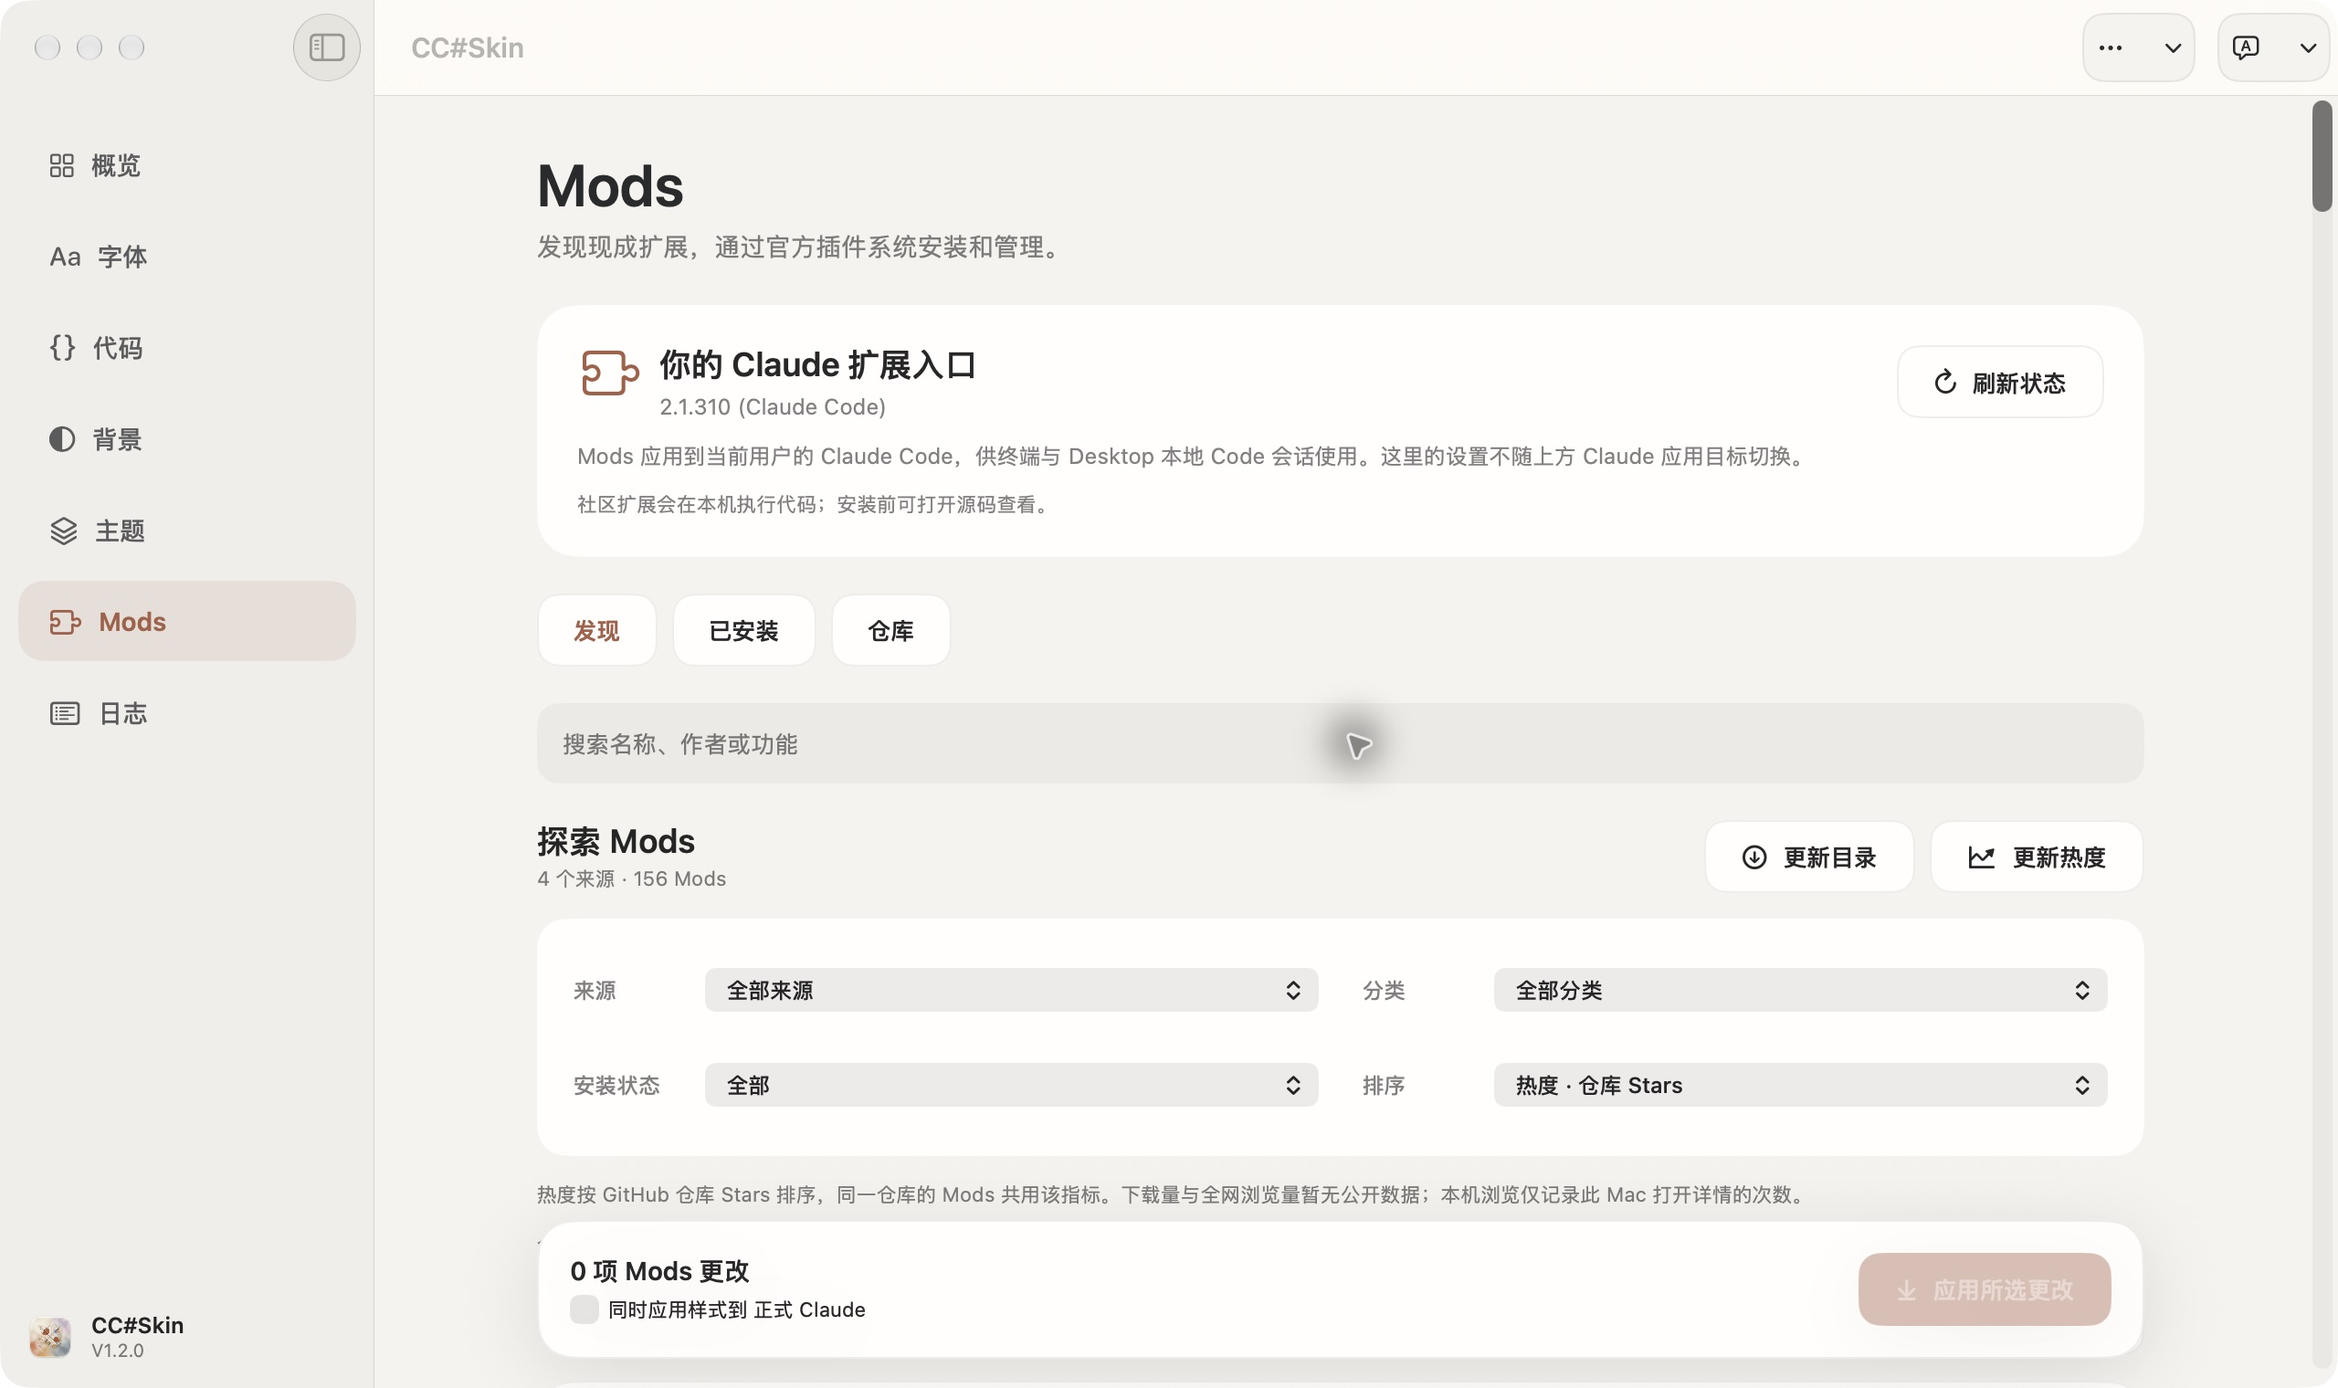
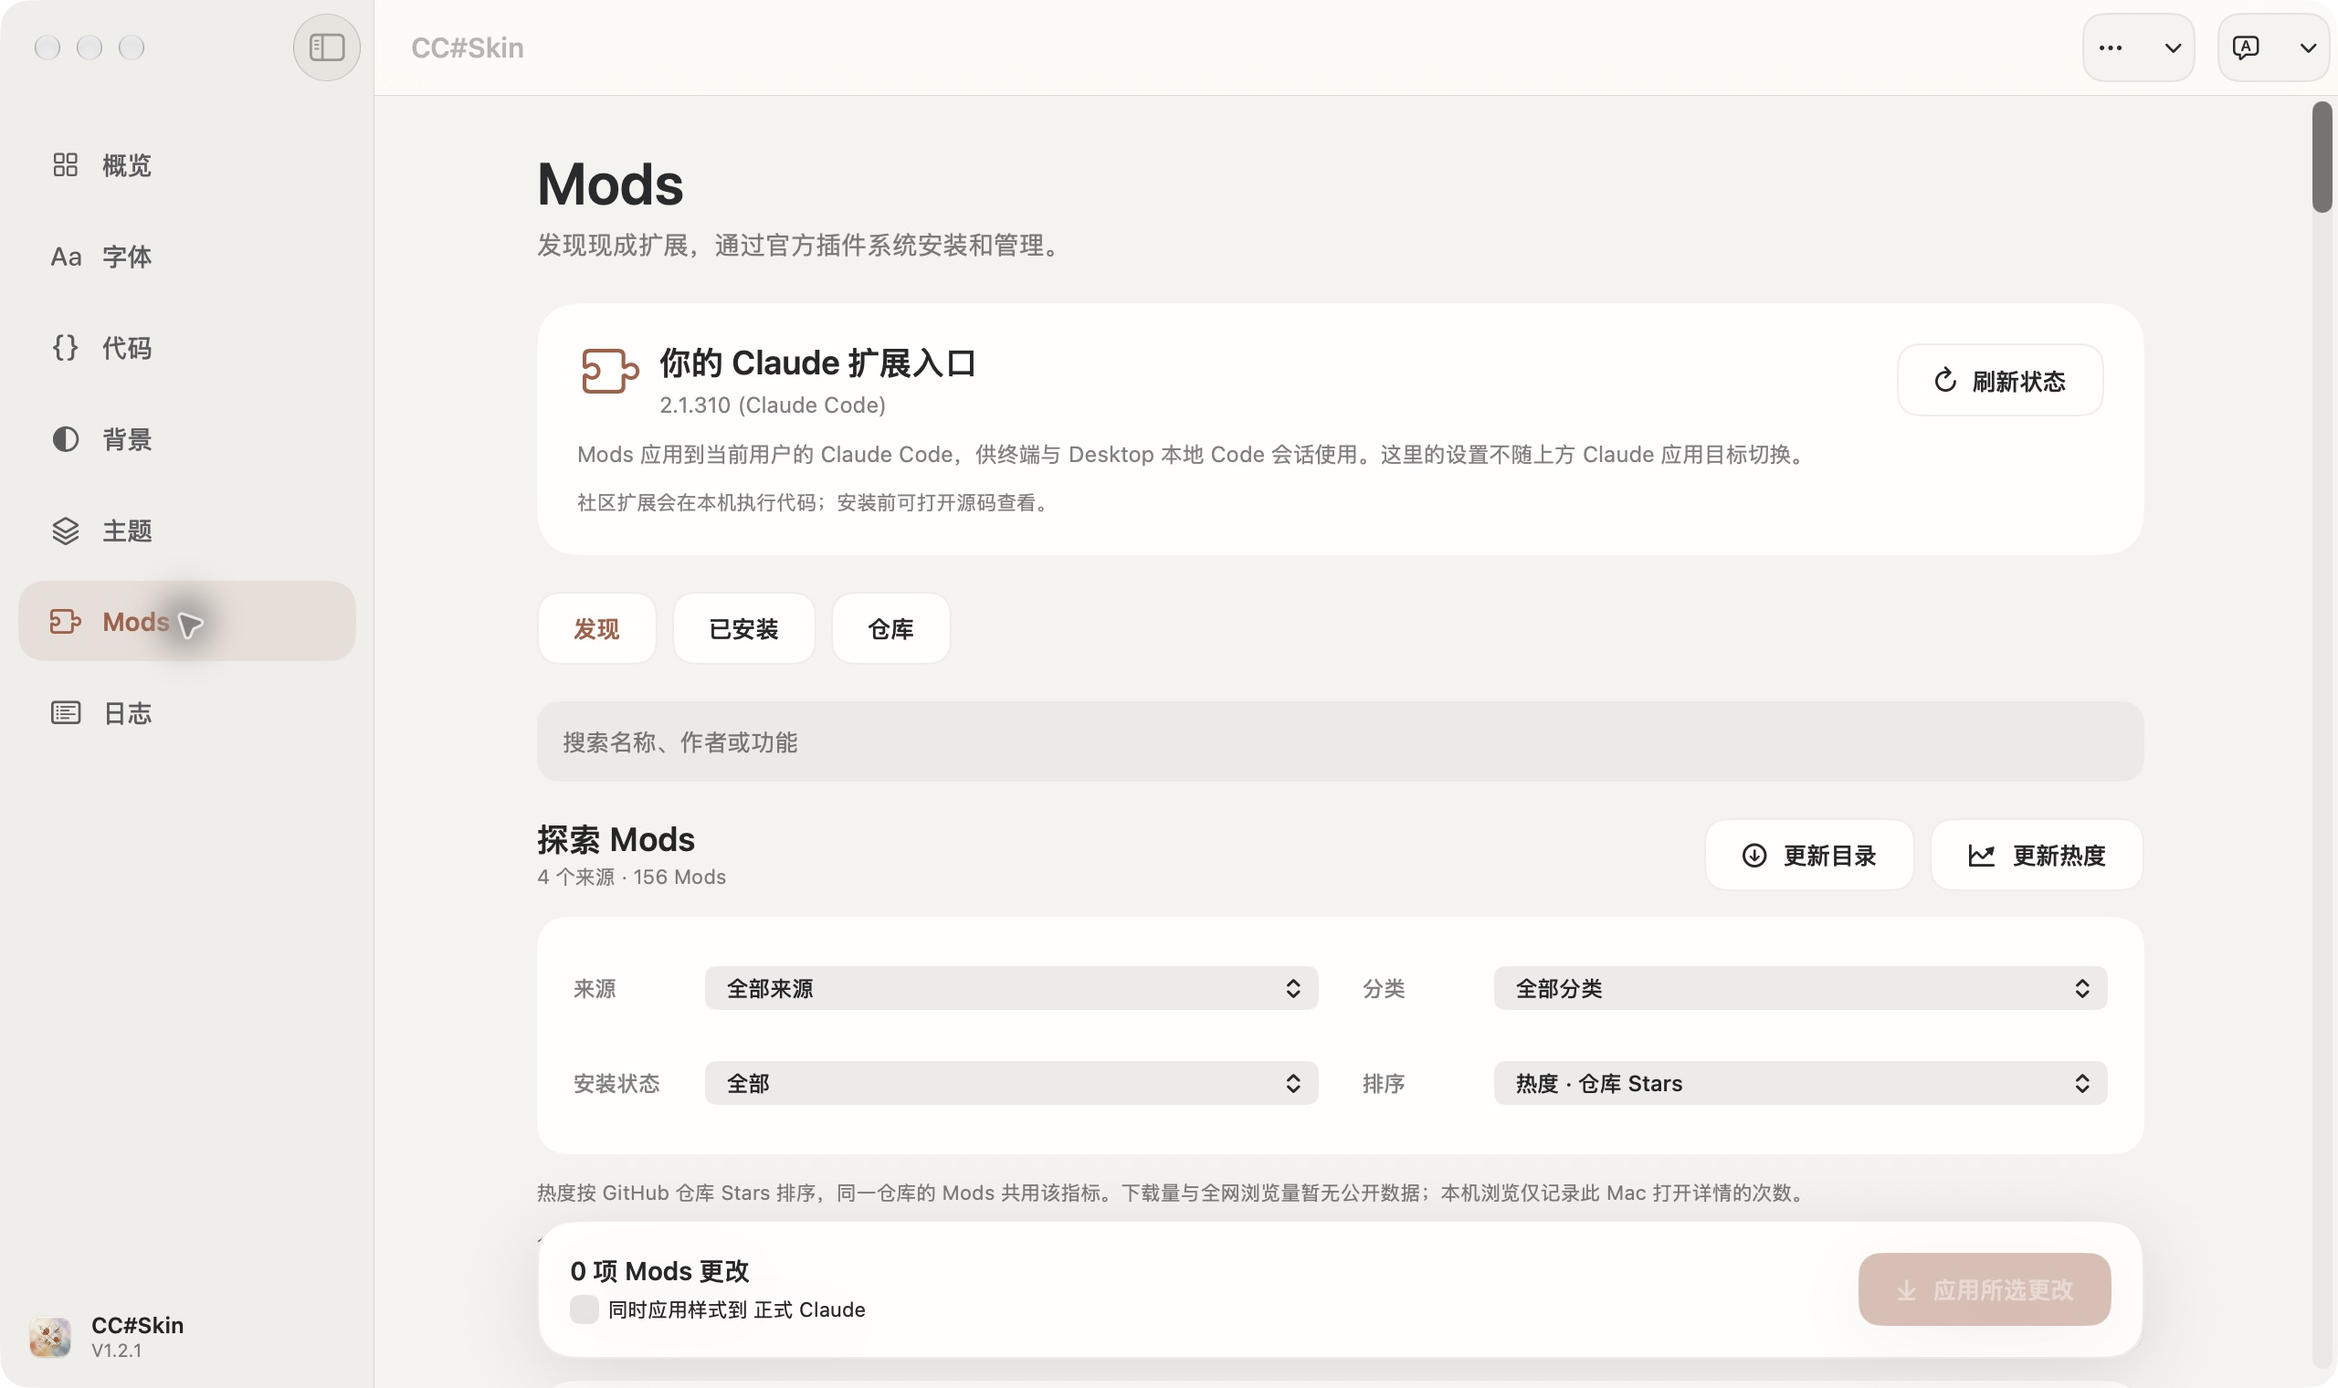
fix: align sidebar labels and rename repository to CCSkin

diff --git a/gui/Updates.swift b/gui/Updates.swift
@@ -4,9 +4,9 @@ import SwiftUI
 import Foundation
 
 enum Updater {
-    static var version: String { Bundle.main.object(forInfoDictionaryKey:"CFBundleShortVersionString") as? String ?? "1.2.0" }
-    static let releases = URL(string: "https://github.com/Orxooo/ClaudeFont/releases")!
-    static let endpoint = URL(string: "https://api.github.com/repos/Orxooo/ClaudeFont/releases/latest")!
+    static var version: String { Bundle.main.object(forInfoDictionaryKey:"CFBundleShortVersionString") as? String ?? "1.2.1" }
+    static let releases = URL(string: "https://github.com/Orxooo/CCSkin/releases")!
+    static let endpoint = URL(string: "https://api.github.com/repos/Orxooo/CCSkin/releases/latest")!
     static func isNewer(_ tag: String) -> Bool {
         let normalized = tag.hasPrefix("v") || tag.hasPrefix("V") ? String(tag.dropFirst()) : tag
         let parts = normalized.split(separator: ".").compactMap { Int($0) }
@@ -43,7 +43,7 @@ final class UpdateWatcher: ObservableObject {
                 guard error == nil, let response = response as? HTTPURLResponse, response.statusCode == 200,
                       let data, let release = try? JSONDecoder().decode(Release.self, from: data),
                       let page = URL(string: release.html_url), page.scheme == "https", page.host == "github.com",
-                      page.path.lowercased().hasPrefix("/orxooo/claudefont/releases/") else {
+                      page.path.lowercased().hasPrefix("/orxooo/ccskin/releases/") else {
                     self.message = Copy.shared.effective == .zh ? "检查失败，请稍后重试。" : "Could not check. Try again later."; return
                 }
                 UserDefaults.standard.set(Date().timeIntervalSince1970, forKey: "lastReleaseCheck")

diff --git a/gui/WorkspaceView.swift b/gui/WorkspaceView.swift
@@ -331,7 +331,13 @@ struct WorkspaceView: View {
             VStack(spacing: 6) {
                 ForEach(WorkspaceTab.allCases) { item in
                     Button { withAnimation(motion) { tab = item } } label: {
-                        Label(item.title(lang), systemImage: item.symbol)
+                        HStack(spacing: 10) {
+                            Image(systemName: item.symbol)
+                                .frame(width: 20, height: 20)
+                                .accessibilityHidden(true)
+                            Text(item.title(lang))
+                                .lineLimit(1)
+                        }
                             .font(.system(size: 14, weight: tab == item ? .semibold : .medium))
                             .foregroundStyle(tab == item ? accent : ink.opacity(0.75))
                             .frame(maxWidth: .infinity, alignment: .leading)
@@ -344,6 +350,7 @@ struct WorkspaceView: View {
                             }
                             .contentShape(RoundedRectangle(cornerRadius: 14))
                     }.buttonStyle(.plain).focusEffectDisabled()
+                        .accessibilityLabel(item.title(lang))
                         .accessibilityAddTraits(tab == item ? .isSelected : [])
                 }
                 Spacer()

diff --git a/docs/USAGE.md b/docs/USAGE.md
@@ -4,15 +4,15 @@
 
 ## 安装与校验
 
-在[发行页](https://github.com/Orxooo/ClaudeFont/releases/latest)下载 macOS ZIP 与 `SHA256SUMS.txt`。将 ZIP 的 SHA-256 摘要与清单中的同名条目核对：
+在[发行页](https://github.com/Orxooo/CCSkin/releases/latest)下载 macOS ZIP 与 `SHA256SUMS.txt`。将 ZIP 的 SHA-256 摘要与清单中的同名条目核对：
 
 ```sh
-shasum -a 256 CCSkin-1.2.0-macOS-arm64.zip
+shasum -a 256 CCSkin-1.2.1-macOS-arm64.zip
 ```
 
-以上命令对应 V1.2.0；其他版本请使用发行页列出的文件名。解压后，将应用移入「应用程序」文件夹。
+以上命令对应 V1.2.1；其他版本请使用发行页列出的文件名。解压后，将应用移入「应用程序」文件夹。
 
-V1.2.0（构建 7）使用 Apple 开发证书签名，未经 Apple 公证。若 macOS 拦截首次打开，确认来源和摘要后，在「系统设置 → 隐私与安全性」选择「仍要打开」。
+V1.2.1（构建 8）使用 Apple 开发证书签名，未经 Apple 公证。若 macOS 拦截首次打开，确认来源和摘要后，在「系统设置 → 隐私与安全性」选择「仍要打开」。
 
 当前发行包和源码构建产物均为 `CC#Skin.app`。预览使用示例内容。Mods 用法见 [Mods 说明](MODS.md)。
 
@@ -54,21 +54,21 @@ Claude 更新后，先重新检查兼容性，再应用已保存的设置。CC#S
 
 操作在本机执行，更新检查、目录刷新与仓库热度刷新访问 GitHub。工具不会上传聊天记录、登录信息或 API 密钥。
 
-通过 [Issues](https://github.com/Orxooo/ClaudeFont/issues/new/choose) 提供系统、Claude、CC#Skin 版本与构建号、目标类型、复现步骤和日志。提交前请移除用户名、私人路径、聊天内容与登录资料。
+通过 [Issues](https://github.com/Orxooo/CCSkin/issues/new/choose) 提供系统、Claude、CC#Skin 版本与构建号、目标类型、复现步骤和日志。提交前请移除用户名、私人路径、聊天内容与登录资料。
 
 ## English
 
 ### Installation and checksums
 
-Download the macOS ZIP and `SHA256SUMS.txt` from [Releases](https://github.com/Orxooo/ClaudeFont/releases/latest). Compare the ZIP's SHA-256 digest with the entry for the same filename:
+Download the macOS ZIP and `SHA256SUMS.txt` from [Releases](https://github.com/Orxooo/CCSkin/releases/latest). Compare the ZIP's SHA-256 digest with the entry for the same filename:
 
 ```sh
-shasum -a 256 CCSkin-1.2.0-macOS-arm64.zip
+shasum -a 256 CCSkin-1.2.1-macOS-arm64.zip
 ```
 
-This command is for V1.2.0; use the filename listed on the release page for other versions. Extract the ZIP and move the app to Applications.
+This command is for V1.2.1; use the filename listed on the release page for other versions. Extract the ZIP and move the app to Applications.
 
-V1.2.0 (build 7) is signed with an Apple development certificate and is not notarized. If macOS blocks the first launch, verify the source and checksum, then choose **Open Anyway** in **System Settings → Privacy & Security**.
+V1.2.1 (build 8) is signed with an Apple development certificate and is not notarized. If macOS blocks the first launch, verify the source and checksum, then choose **Open Anyway** in **System Settings → Privacy & Security**.
 
 Current packages and source builds both produce `CC#Skin.app`. Previews use sample content. See the [Mods guide](MODS.md) for plugin management.
 
@@ -110,4 +110,4 @@ The rename preserves the bundle ID, CLI command and data directories. A normal a
 
 Operations run locally; release checks, catalog refresh and repository metrics contact GitHub. The tool does not upload conversations, login data or API keys.
 
-Use [Issues](https://github.com/Orxooo/ClaudeFont/issues/new/choose) with system, Claude and CC#Skin versions/build numbers, target type, reproduction steps and logs. Remove usernames, private paths, conversation content and login data before submitting.
+Use [Issues](https://github.com/Orxooo/CCSkin/issues/new/choose) with system, Claude and CC#Skin versions/build numbers, target type, reproduction steps and logs. Remove usernames, private paths, conversation content and login data before submitting.

diff --git a/README.en.md b/README.en.md
@@ -2,14 +2,14 @@
 <h1 align="center">CC#Skin</h1>
 <p align="center">Fonts, appearance and Mods management for Claude desktop.</p>
 <p align="center">
-<a href="https://github.com/Orxooo/ClaudeFont/releases/latest"><img src="https://img.shields.io/github/v/release/Orxooo/ClaudeFont" alt="Latest release"></a>
+<a href="https://github.com/Orxooo/CCSkin/releases/latest"><img src="https://img.shields.io/github/v/release/Orxooo/CCSkin" alt="Latest release"></a>
 <img src="https://img.shields.io/badge/macOS-26%2B-lightgrey" alt="macOS 26+">
 <a href="LICENSE"><img src="https://img.shields.io/badge/license-GPL--3.0--only-blue" alt="GPL-3.0-only"></a>
 </p>
 
-**[Download CC#Skin 1.2.0](https://github.com/Orxooo/ClaudeFont/releases/download/v1.2.0/CCSkin-1.2.0-macOS-arm64.zip)** · [简体中文](README.md) · [Changelog](CHANGELOG.md) · [Report an issue](https://github.com/Orxooo/ClaudeFont/issues/new/choose)
+**[Download CC#Skin 1.2.1](https://github.com/Orxooo/CCSkin/releases/download/v1.2.1/CCSkin-1.2.1-macOS-arm64.zip)** · [简体中文](README.md) · [Changelog](CHANGELOG.md) · [Report an issue](https://github.com/Orxooo/CCSkin/issues/new/choose)
 
-Current release: **1.2.0 (build 7)**. Requires **Apple Silicon and macOS 26+**. Mods management also needs the official Claude Code CLI **2.1.287+**.
+Current release: **1.2.1 (build 8)**. Requires **Apple Silicon and macOS 26+**. Mods management also needs the official Claude Code CLI **2.1.287+**.
 
 ![CC#Skin Mods sources, filters and rankings](docs/assets/mods.png)
 
@@ -26,12 +26,12 @@ Several entries may share a repository; Stars and push dates describe that whole
 
 ## Install
 
-1. Download the app ZIP and [`SHA256SUMS.txt`](https://github.com/Orxooo/ClaudeFont/releases/download/v1.2.0/SHA256SUMS.txt).
+1. Download the app ZIP and [`SHA256SUMS.txt`](https://github.com/Orxooo/CCSkin/releases/download/v1.2.1/SHA256SUMS.txt).
 2. Verify the checksum, extract the ZIP and move `CC#Skin.app` into Applications.
 3. Open the app. For fonts and appearance, complete the App Management access check in Overview.
 
 ```sh
-shasum -a 256 CCSkin-1.2.0-macOS-arm64.zip
+shasum -a 256 CCSkin-1.2.1-macOS-arm64.zip
 ```
 
 The packaged app needs neither Python nor Xcode. It is signed with an Apple development certificate and is not notarized; see the [user guide](docs/USAGE.md#installation-and-checksums) for first-launch instructions.

diff --git a/README.md b/README.md
@@ -2,14 +2,14 @@
 <h1 align="center">CC#Skin</h1>
 <p align="center">Claude 桌面版的字体、外观与 Mods 管理工具。</p>
 <p align="center">
-<a href="https://github.com/Orxooo/ClaudeFont/releases/latest"><img src="https://img.shields.io/github/v/release/Orxooo/ClaudeFont" alt="最新版本"></a>
+<a href="https://github.com/Orxooo/CCSkin/releases/latest"><img src="https://img.shields.io/github/v/release/Orxooo/CCSkin" alt="最新版本"></a>
 <img src="https://img.shields.io/badge/macOS-26%2B-lightgrey" alt="macOS 26+">
 <a href="LICENSE"><img src="https://img.shields.io/badge/license-GPL--3.0--only-blue" alt="GPL-3.0-only"></a>
 </p>
 
-**[下载 CC#Skin 1.2.0](https://github.com/Orxooo/ClaudeFont/releases/download/v1.2.0/CCSkin-1.2.0-macOS-arm64.zip)** · [English](README.en.md) · [更新记录](CHANGELOG.md) · [问题反馈](https://github.com/Orxooo/ClaudeFont/issues/new/choose)
+**[下载 CC#Skin 1.2.1](https://github.com/Orxooo/CCSkin/releases/download/v1.2.1/CCSkin-1.2.1-macOS-arm64.zip)** · [English](README.en.md) · [更新记录](CHANGELOG.md) · [问题反馈](https://github.com/Orxooo/CCSkin/issues/new/choose)
 
-当前发行版本 **1.2.0（构建 7）**。适用于 **macOS 26+ 的 Apple Silicon Mac**；Mods 管理另需 Claude Code 官方 CLI **2.1.287+**。
+当前发行版本 **1.2.1（构建 8）**。适用于 **macOS 26+ 的 Apple Silicon Mac**；Mods 管理另需 Claude Code 官方 CLI **2.1.287+**。
 
 ![CC#Skin 的 Mods 来源、筛选与排行](docs/assets/mods.png)
 
@@ -26,12 +26,12 @@
 
 ## 安装
 
-1. 下载上方安装包和发行页的 [`SHA256SUMS.txt`](https://github.com/Orxooo/ClaudeFont/releases/download/v1.2.0/SHA256SUMS.txt)。
+1. 下载上方安装包和发行页的 [`SHA256SUMS.txt`](https://github.com/Orxooo/CCSkin/releases/download/v1.2.1/SHA256SUMS.txt)。
 2. 核对摘要，解压 ZIP，将 `CC#Skin.app` 放入「应用程序」。
 3. 打开应用。使用字体和外观功能时，按「概览」完成 App 管理权限检测。
 
 ```sh
-shasum -a 256 CCSkin-1.2.0-macOS-arm64.zip
+shasum -a 256 CCSkin-1.2.1-macOS-arm64.zip
 ```
 
 客户端内置运行所需组件，无需 Python 或 Xcode。发行包使用 Apple 开发证书签名，未经 Apple 公证；首次打开说明见 [使用指南](docs/USAGE.md#安装与校验)。

diff --git a/docs/VERIFICATION.md b/docs/VERIFICATION.md
@@ -1,4 +1,26 @@
-# CC#Skin 1.2.0 verification
+# CC#Skin 1.2.1 verification
+
+Version **1.2.1, build 8**; focused checks recorded **2026-10-26**.
+
+| Check | Result | Scope |
+| --- | --- | --- |
+| GUI / bundled CLI build | PASS | Apple Silicon/macOS compilation |
+| Signing and local app ZIP | PASS | Deep strict signature; extracted, built and installed app file hashes match |
+| Installed native sidebar | PASS | All seven Chinese titles share a fixed icon column and common leading edge, including selected Mods |
+| Name/version/icon | PASS | CC#Skin 1.2.1 build 8; supplied icon retained |
+| Renamed-repository updater | PASS | Manual check against Orxooo/CCSkin returns the latest-stable message |
+| Documentation | PASS | New repository URLs and a screenshot of the installed build |
+
+Only sidebar layout, release URLs and package version changed in the app.
+Mods, appearance-engine and test sources are unchanged from the 1.2.0 regression
+baseline below; those full suites were not rerun for this layout/link patch.
+Third-party Mod rendering, new actual-Claude patching, minimum-width/English UI
+and other macOS/CPU combinations remain **NOT RUN**. Public asset digests are
+checked against a fresh download after upload. Development-signed; not notarized.
+
+---
+
+# Previous 1.2.0 regression record
 
 Release candidate: **1.2.0, build 7**. Checks recorded **2026-10-26** on Apple Silicon/macOS.
 

diff --git a/CHANGELOG.md b/CHANGELOG.md
@@ -1,5 +1,11 @@
 # Changelog
 
+## CC#Skin 1.2.1 · build 8 — 2026-10-26
+
+- Align every sidebar title using a fixed-width icon column and shared spacing.
+- Rename the GitHub repository to CCSkin and update release, help and clone links.
+- Point the built-in updater at the renamed repository.
+
 ## CC#Skin 1.2.0 · build 7 — 2026-10-26
 
 - Official product name CC#Skin and new icon artwork.

diff --git a/docs/DEVELOPMENT.md b/docs/DEVELOPMENT.md
@@ -12,8 +12,8 @@
 ## 构建客户端
 
 ```sh
-git clone https://github.com/Orxooo/ClaudeFont.git
-cd ClaudeFont
+git clone https://github.com/Orxooo/CCSkin.git
+cd CCSkin
 ./gui/build.sh
 ```
 
